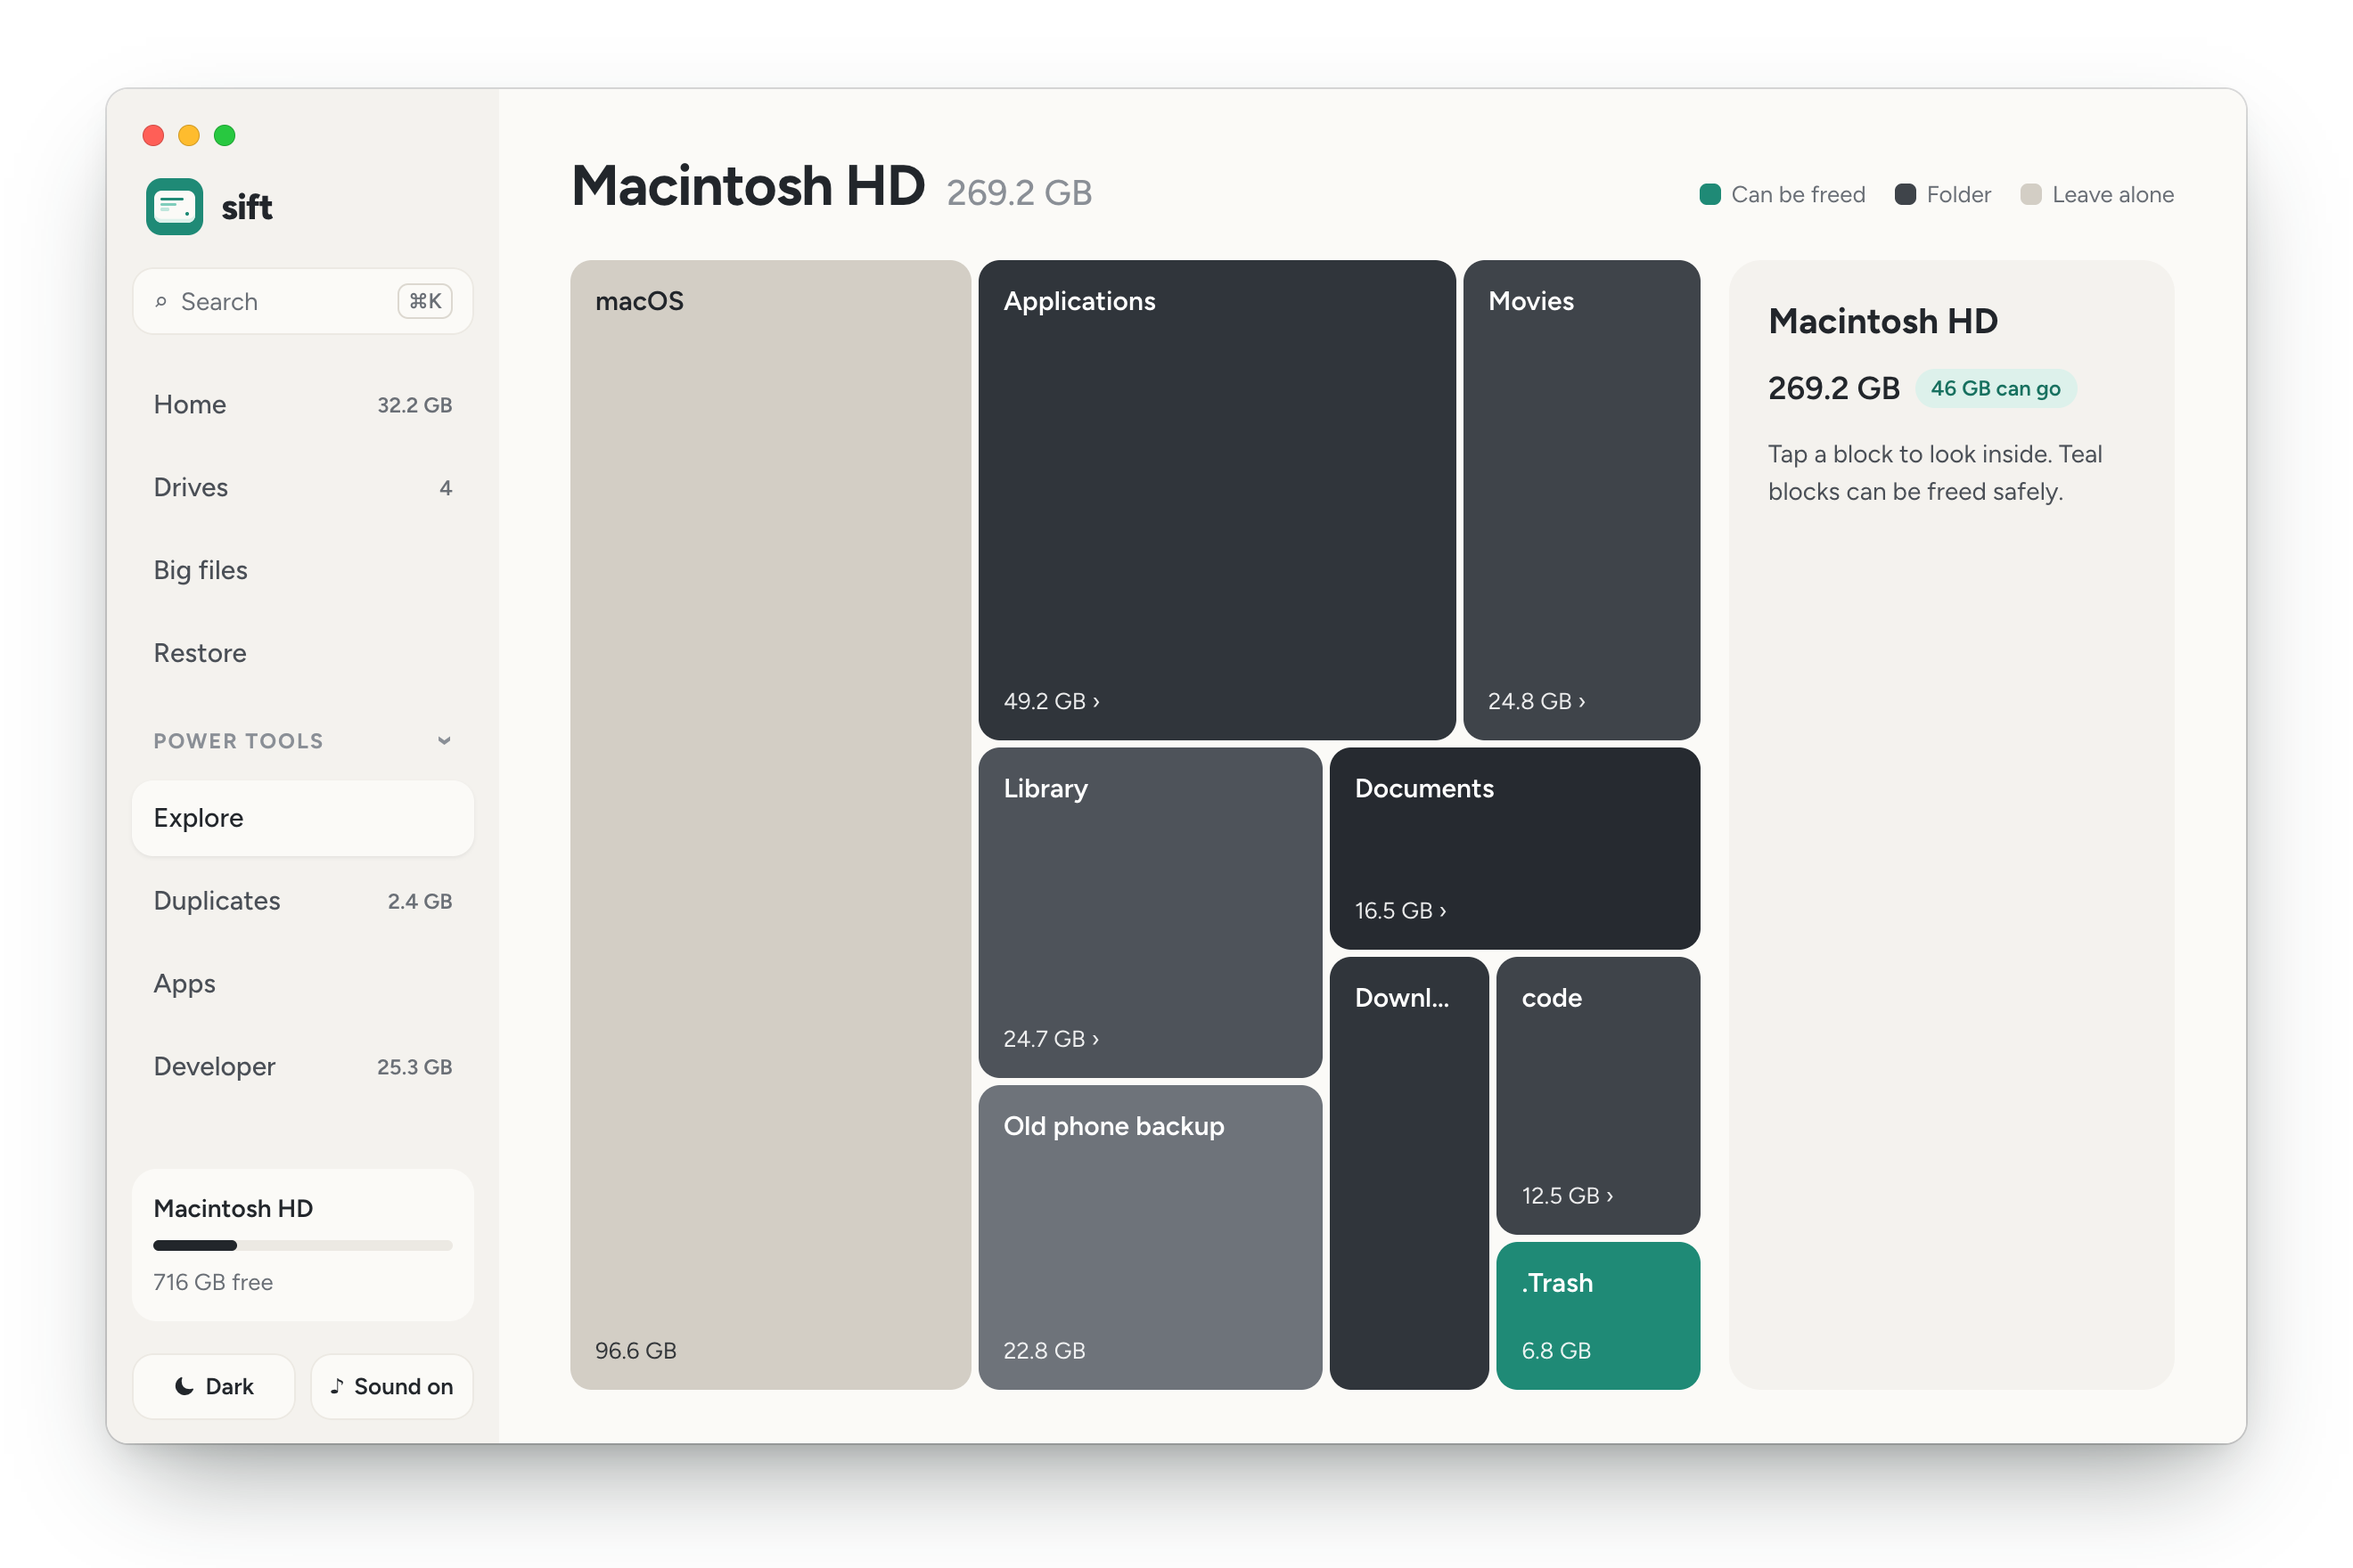
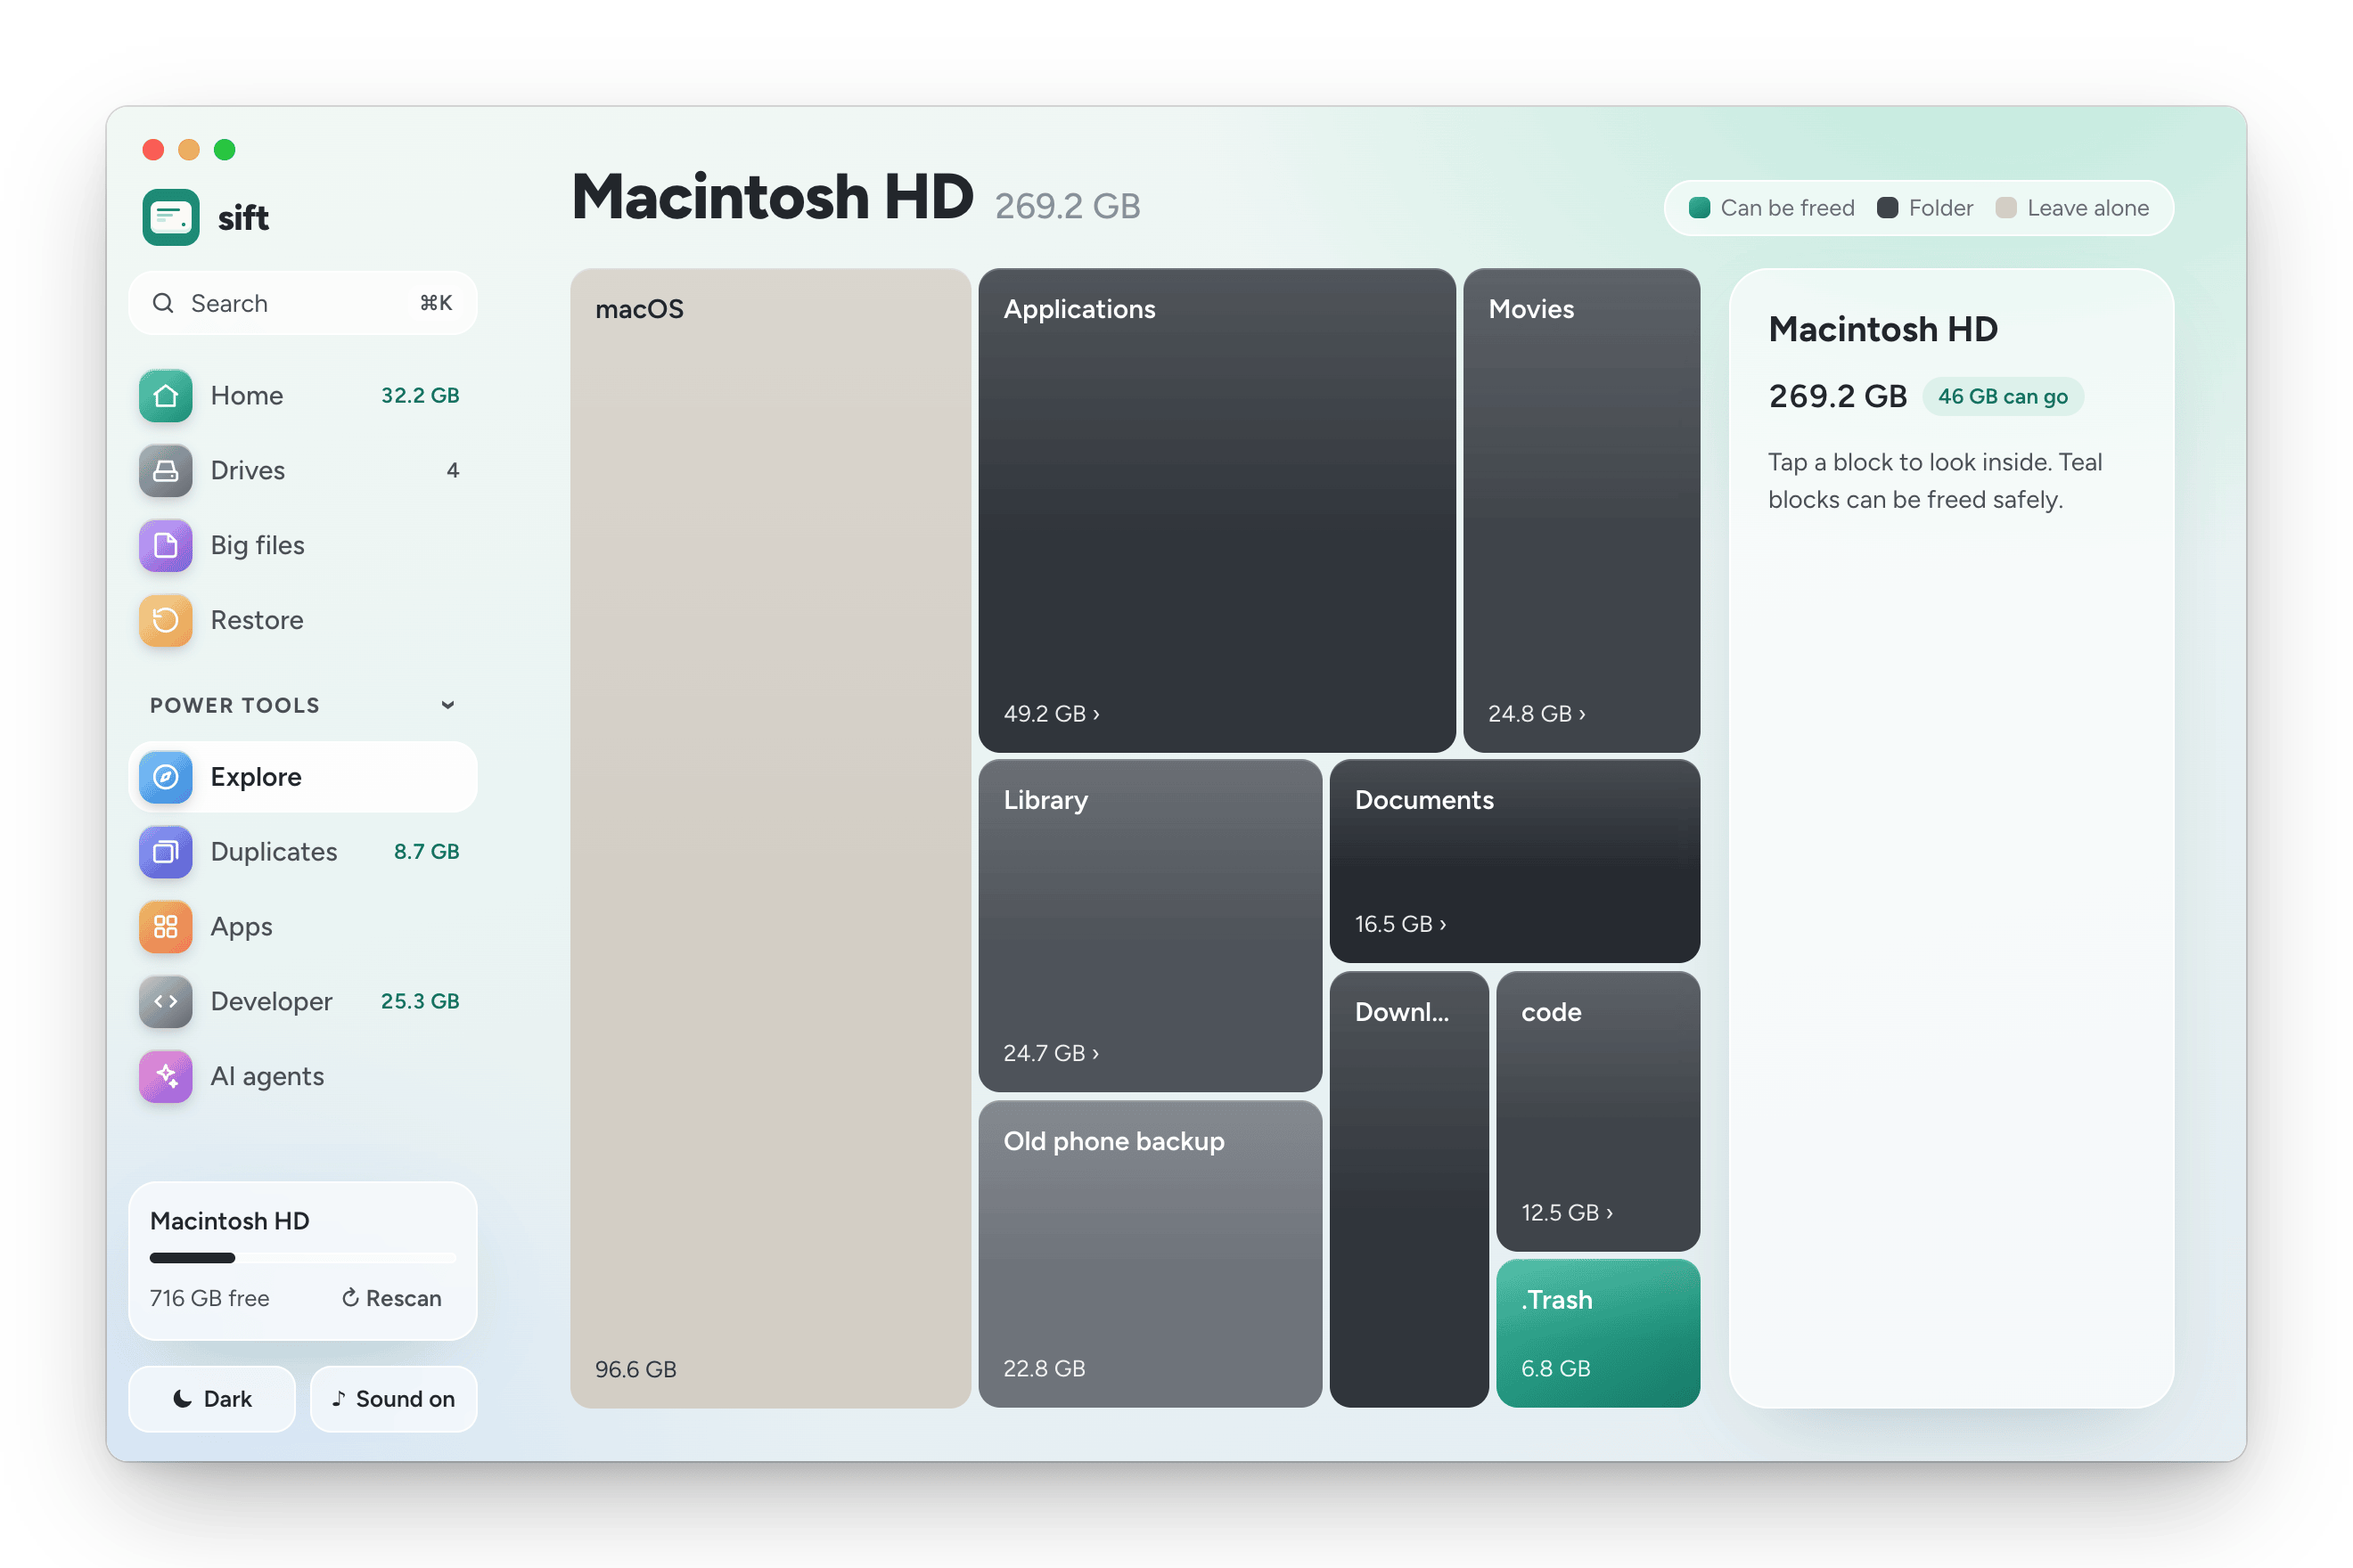
Retake README screenshots for 2.0; steady count-ups
- README: all screenshots retaken in the new design (same 2640x1760
  frame), plus new AI agents and Apps shots; Home and AI agents lead.
- Counting amounts (Home sweep, Freeing, Done) reserve their final width
  and always show one decimal, so the words beside them don't jump.
- Sidebar spacing tightened so the bottom buttons fit at 1200x760 with
  nine pages.
- Home tiles show a spinner until their numbers arrive instead of "None".
- Browser demo: `?access` starts with full access on (for screenshots).

diff --git a/src/views/home/HomeView.tsx b/src/views/home/HomeView.tsx
@@ -1,5 +1,6 @@
 import { useQuery } from "@tanstack/react-query";
 import { useRef, useState, type CSSProperties, type ReactNode } from "react";
+import { CountingAmount } from "@/components/ui/CountingAmount";
 import { DriveRing } from "@/components/ui/DriveRing";
 import type { IconName } from "@/components/ui/Icon";
 import { IconTile } from "@/components/ui/IconTile";
@@ -403,17 +404,25 @@ export function HomeView({ onNavigate }: { onNavigate: (id: RouteId) => void }) 
   const current = rows.find((r) => r.status === "active") ?? rows[rows.length - 1];
 
   let eyebrow: string;
-  let headline: string;
+  let headline: ReactNode;
   let subline: string;
   if (phase === "running") {
     eyebrow = "Sweeping…";
-    headline = `${fmtGB(free.progress * free.totalBytes)} of ${fmtGB(free.totalBytes)}`;
+    headline = (
+      <>
+        <CountingAmount bytes={free.progress * free.totalBytes} to={free.totalBytes} /> of {fmtGB(free.totalBytes)}
+      </>
+    );
     subline = current ? `Clearing ${current.name.toLowerCase()}. You can keep using your computer.` : "";
   } else if (phase === "done") {
     const keptAll = free.items.every((i) => i.held);
     const keptNone = free.items.every((i) => !i.held);
     eyebrow = "All done";
-    headline = `You got ${fmtGB(freedCount)} back`;
+    headline = (
+      <>
+        You got <CountingAmount bytes={freedCount} to={free.freedBytes} /> back
+      </>
+    );
     subline = keptNone
       ? "Those were cleared for good. Apps rebuild what they need."
       : keptAll
@@ -617,8 +626,8 @@ export function HomeView({ onNavigate }: { onNavigate: (id: RouteId) => void }) 
             title="Duplicates"
             hue="#5a68d8"
             glyph={blob("#9aa8ff", "#4b55c9", "size-[92px] rotate-[18deg] rounded-[28px]")}
-            value={!scanned ? <Spinner size={18} className="st-mut" /> : dupeBytes > 0 ? fmtGB(dupeBytes) : "None"}
-            sub={dupeBytes > 0 ? `in ${dupes?.length ?? 0} sets of copies` : "No copies found"}
+            value={!dupes ? <Spinner size={18} className="st-mut" /> : dupeBytes > 0 ? fmtGB(dupeBytes) : "None"}
+            sub={!dupes ? "Looking for copies…" : dupeBytes > 0 ? `in ${dupes.length} sets of copies` : "No copies found"}
             gain={dupeBytes > 0}
             onClick={() => go("duplicates")}
           />
@@ -627,8 +636,8 @@ export function HomeView({ onNavigate }: { onNavigate: (id: RouteId) => void }) 
             title="Developer"
             hue="#4f7891"
             glyph={blob("#d6e6f2", "#3f5a6d", "size-[84px] rounded-full")}
-            value={!scanned ? <Spinner size={18} className="st-mut" /> : devBytes > 0 ? fmtGB(devBytes) : "None"}
-            sub={devBytes > 0 ? "of build output tools rebuild" : "No old build output"}
+            value={!dev ? <Spinner size={18} className="st-mut" /> : devBytes > 0 ? fmtGB(devBytes) : "None"}
+            sub={!dev ? "Looking for build output…" : devBytes > 0 ? "of build output tools rebuild" : "No old build output"}
             gain={devBytes > 0}
             onClick={() => go("developer")}
           />
@@ -637,7 +646,7 @@ export function HomeView({ onNavigate }: { onNavigate: (id: RouteId) => void }) 
             title="Big files"
             hue="#8a4fc7"
             glyph={blob("#d3b5ff", "#7a4fd6", "size-[88px] -rotate-[10deg] rounded-[24px]")}
-            value={!scanned ? <Spinner size={18} className="st-mut" /> : (big?.length ?? 0).toLocaleString()}
+            value={!big ? <Spinner size={18} className="st-mut" /> : big.length.toLocaleString()}
             sub="large files worth a look"
             onClick={() => go("big-files")}
           />

diff --git a/src/views/done/DoneView.tsx b/src/views/done/DoneView.tsx
@@ -1,8 +1,9 @@
 import { Button } from "@/components/ui/Button";
+import { CountingAmount } from "@/components/ui/CountingAmount";
 import { useCountUp } from "@/hooks/useCountUp";
 import { useSystemDrive } from "@/hooks/useFindings";
 import { deviceName, usePlatform } from "@/hooks/usePlatform";
-import { fmtBig, fmtGB } from "@/lib/format";
+import { fmtBig } from "@/lib/format";
 import { play } from "@/lib/sound";
 import type { RouteId } from "@/routes";
 import { useFreeStore } from "@/stores/freeStore";
@@ -105,7 +106,7 @@ export function DoneView({ onNavigate }: { onNavigate: (id: RouteId) => void }) 
         <div className="flex flex-col items-center gap-3">
           <span className="text-[13px] font-semibold tracking-[.06em] text-mut uppercase">All done</span>
           <span className="text-[56px] leading-none font-extrabold tracking-[-0.04em] tabular-nums">
-            You got <span className="text-gain">{fmtGB(count)}</span> back
+            You got <CountingAmount className="text-gain" bytes={count} to={freedBytes} /> back
           </span>
           <span className="max-w-[540px] text-[17px] leading-[1.5] text-pretty text-mut">
             {system && `Your ${device} now has ${fmtBig(system.capacityBytes - system.usedBytes)} free. `}

diff --git a/src/components/layout/Sidebar.tsx b/src/components/layout/Sidebar.tsx
@@ -171,7 +171,7 @@ export function Sidebar({ current, onNavigate }: SidebarProps) {
   );
 
   return (
-    <aside className="flex w-[220px] flex-none flex-col gap-4 px-3 pt-5 pb-4">
+    <aside className="flex w-[220px] flex-none flex-col gap-3.5 px-3 pt-5 pb-4">
       {/* macOS draws native traffic lights here (overlay title bar); on
           Windows/Linux the native title bar sits above, so no inset. */}
       {platform === "macos" && <div ref={dragRef} className="-mx-3 -mt-5 h-8 flex-none" />}
@@ -330,7 +330,7 @@ function NavItem({
       onClick={onClick}
       aria-current={active ? "page" : undefined}
       className={cn(
-        "group flex w-full cursor-pointer items-center gap-2.5 rounded-[14px] py-1.5 pr-2.5 pl-1.5 text-left transition-[background-color,box-shadow,transform] duration-300 active:scale-[.97]",
+        "group flex w-full cursor-pointer items-center gap-2.5 rounded-[14px] py-[5px] pr-2.5 pl-1.5 text-left transition-[background-color,box-shadow,transform] duration-300 active:scale-[.97]",
         active ? "st-glass" : "hover:bg-[var(--st-row)]",
       )}
       style={active ? { backgroundColor: "var(--st-glass-hi)" } : undefined}

diff --git a/src/views/freeing/FreeingView.tsx b/src/views/freeing/FreeingView.tsx
@@ -1,4 +1,5 @@
 import { IconTile } from "@/components/ui/IconTile";
+import { CountingAmount } from "@/components/ui/CountingAmount";
 import { DriveRing } from "@/components/ui/DriveRing";
 import { useSystemDrive } from "@/hooks/useFindings";
 import { Spinner } from "@/components/ui/Spinner";
@@ -43,7 +44,8 @@ export function FreeingView() {
         <div className="flex flex-col gap-1.5">
           <span className="text-[13px] font-semibold tracking-[.06em] text-mut uppercase">Freeing up space…</span>
           <span className="text-[40px] leading-[1.05] font-extrabold tracking-[-0.03em] tabular-nums">
-            {fmtGB(totalBytes * progress)} <span className="text-mut3">of {fmtGB(totalBytes)}</span>
+            <CountingAmount bytes={totalBytes * progress} to={totalBytes} />{" "}
+            <span className="text-mut3">of {fmtGB(totalBytes)}</span>
           </span>
           {current && (
             <span className="text-[15px] text-mut">Clearing {current.name.toLowerCase()}. You can keep using your computer.</span>

diff --git a/src/components/ui/CountingAmount.tsx b/src/components/ui/CountingAmount.tsx
@@ -1,0 +1,21 @@
+import { cn } from "@/lib/utils";
+
+/** "9.8 GB" / "10.0 GB": one decimal always, so digits only change in place while counting. */
+const fixed = (bytes: number) => `${(bytes / 1e9).toFixed(1)} GB`;
+
+/**
+ * An amount that counts up or down without shoving the words around it. It
+ * reserves the width of its final value (a hidden copy in the same grid cell),
+ * uses tabular digits and always shows one decimal, so "9.8 GB" turning into
+ * "10.2 GB" doesn't move the text beside it.
+ */
+export function CountingAmount({ bytes, to, className }: { bytes: number; to: number; className?: string }) {
+  return (
+    <span className={cn("inline-grid text-right align-baseline tabular-nums", className)}>
+      <span aria-hidden="true" className="invisible col-start-1 row-start-1">
+        {fixed(Math.max(to, bytes))}
+      </span>
+      <span className="col-start-1 row-start-1">{fixed(bytes)}</span>
+    </span>
+  );
+}

diff --git a/src/lib/tauri.ts b/src/lib/tauri.ts
@@ -42,8 +42,11 @@ async function call<T>(cmd: string, fallback: () => T | Promise<T>, args?: Recor
 /** Pretend a fixture took a moment, so loading states and the scan overlay are visible in the browser. */
 const slow = <T,>(value: () => T, ms = 400) => () => new Promise<T>((r) => setTimeout(() => r(value()), ms));
 
-/** Browser demo: access turns on a moment after "Open System Settings". */
-let demoAccess = false;
+/**
+ * Browser demo: access turns on a moment after "Open System Settings".
+ * `?access` starts with it on (screenshots without the permission banner).
+ */
+let demoAccess = typeof location !== "undefined" && new URLSearchParams(location.search).has("access");
 
 export const api = {
   /** macOS Full Disk Access. Always true on Windows and Linux. */

diff --git a/README.md b/README.md
@@ -19,12 +19,12 @@ Almost everything Sift removes waits in **Restore** for 30 days, so you can chan
 ## Screenshots
 
 <p align="center">
-  <img src="assets/screenshots/home.png" alt="Sift Home: 32.2 GB can be freed today, with old installers, the Trash, app leftovers, temporary files, duplicate photos and large old videos" width="420">
-  <img src="assets/screenshots/review.png" alt="Review: every category explained in plain words, safe ones switched on, with See all links and the total you'll free up" width="420">
+  <img src="assets/screenshots/home.png" alt="Sift Home: 32.2 GB ready to sweep, with old installers, the Trash, app leftovers and temporary files each marked as kept in Restore or deleted for good, a Sweep button, the drive shown inside a ring of the disk, and tiles for Duplicates, Developer, Big files and Restore" width="420">
+  <img src="assets/screenshots/agents.png" alt="AI agents: what AI coding tools leave behind, with leftover worktrees, old Claude Code versions and caches per tool, a worktree with uncommitted changes switched off, and local models listed only" width="420">
 </p>
 
 <p align="center">
-  <img src="assets/screenshots/restore.png" alt="Restore: removed items kept for 30 days with Restore and Clear now buttons, and a Cleared for good section" width="420">
+  <img src="assets/screenshots/review.png" alt="Review: every category explained in plain words, safe ones switched on, with See all links and the total you'll free up" width="420">
   <img src="assets/screenshots/duplicates.png" alt="Duplicates: sets of identical files listed by how much they free, with the selected set's copies side by side, a Keep or Remove label on each, and a choice of keeping the oldest, best-placed or newest copy" width="420">
 </p>
 
@@ -33,8 +33,13 @@ Almost everything Sift removes waits in **Restore** for 30 days, so you can chan
 <br>
 
 <p align="center">
+  <img src="assets/screenshots/restore.png" alt="Restore: removed items kept for 30 days with Restore and Clear now buttons, and a Cleared for good section for the Trash and temporary files" width="420">
   <img src="assets/screenshots/see-all.png" alt="See all: every file behind a category, biggest first, with Show in Finder and remove-one-at-a-time buttons" width="420">
+</p>
+
+<p align="center">
   <img src="assets/screenshots/done.png" alt="All done: You got 32.2 GB back, with a link to see what was removed" width="420">
+  <img src="assets/screenshots/apps.png" alt="Apps: tiles for apps not opened in six months, all apps and their caches, with one app opened to show what uninstalling it would remove" width="420">
 </p>
 
 <p align="center">
